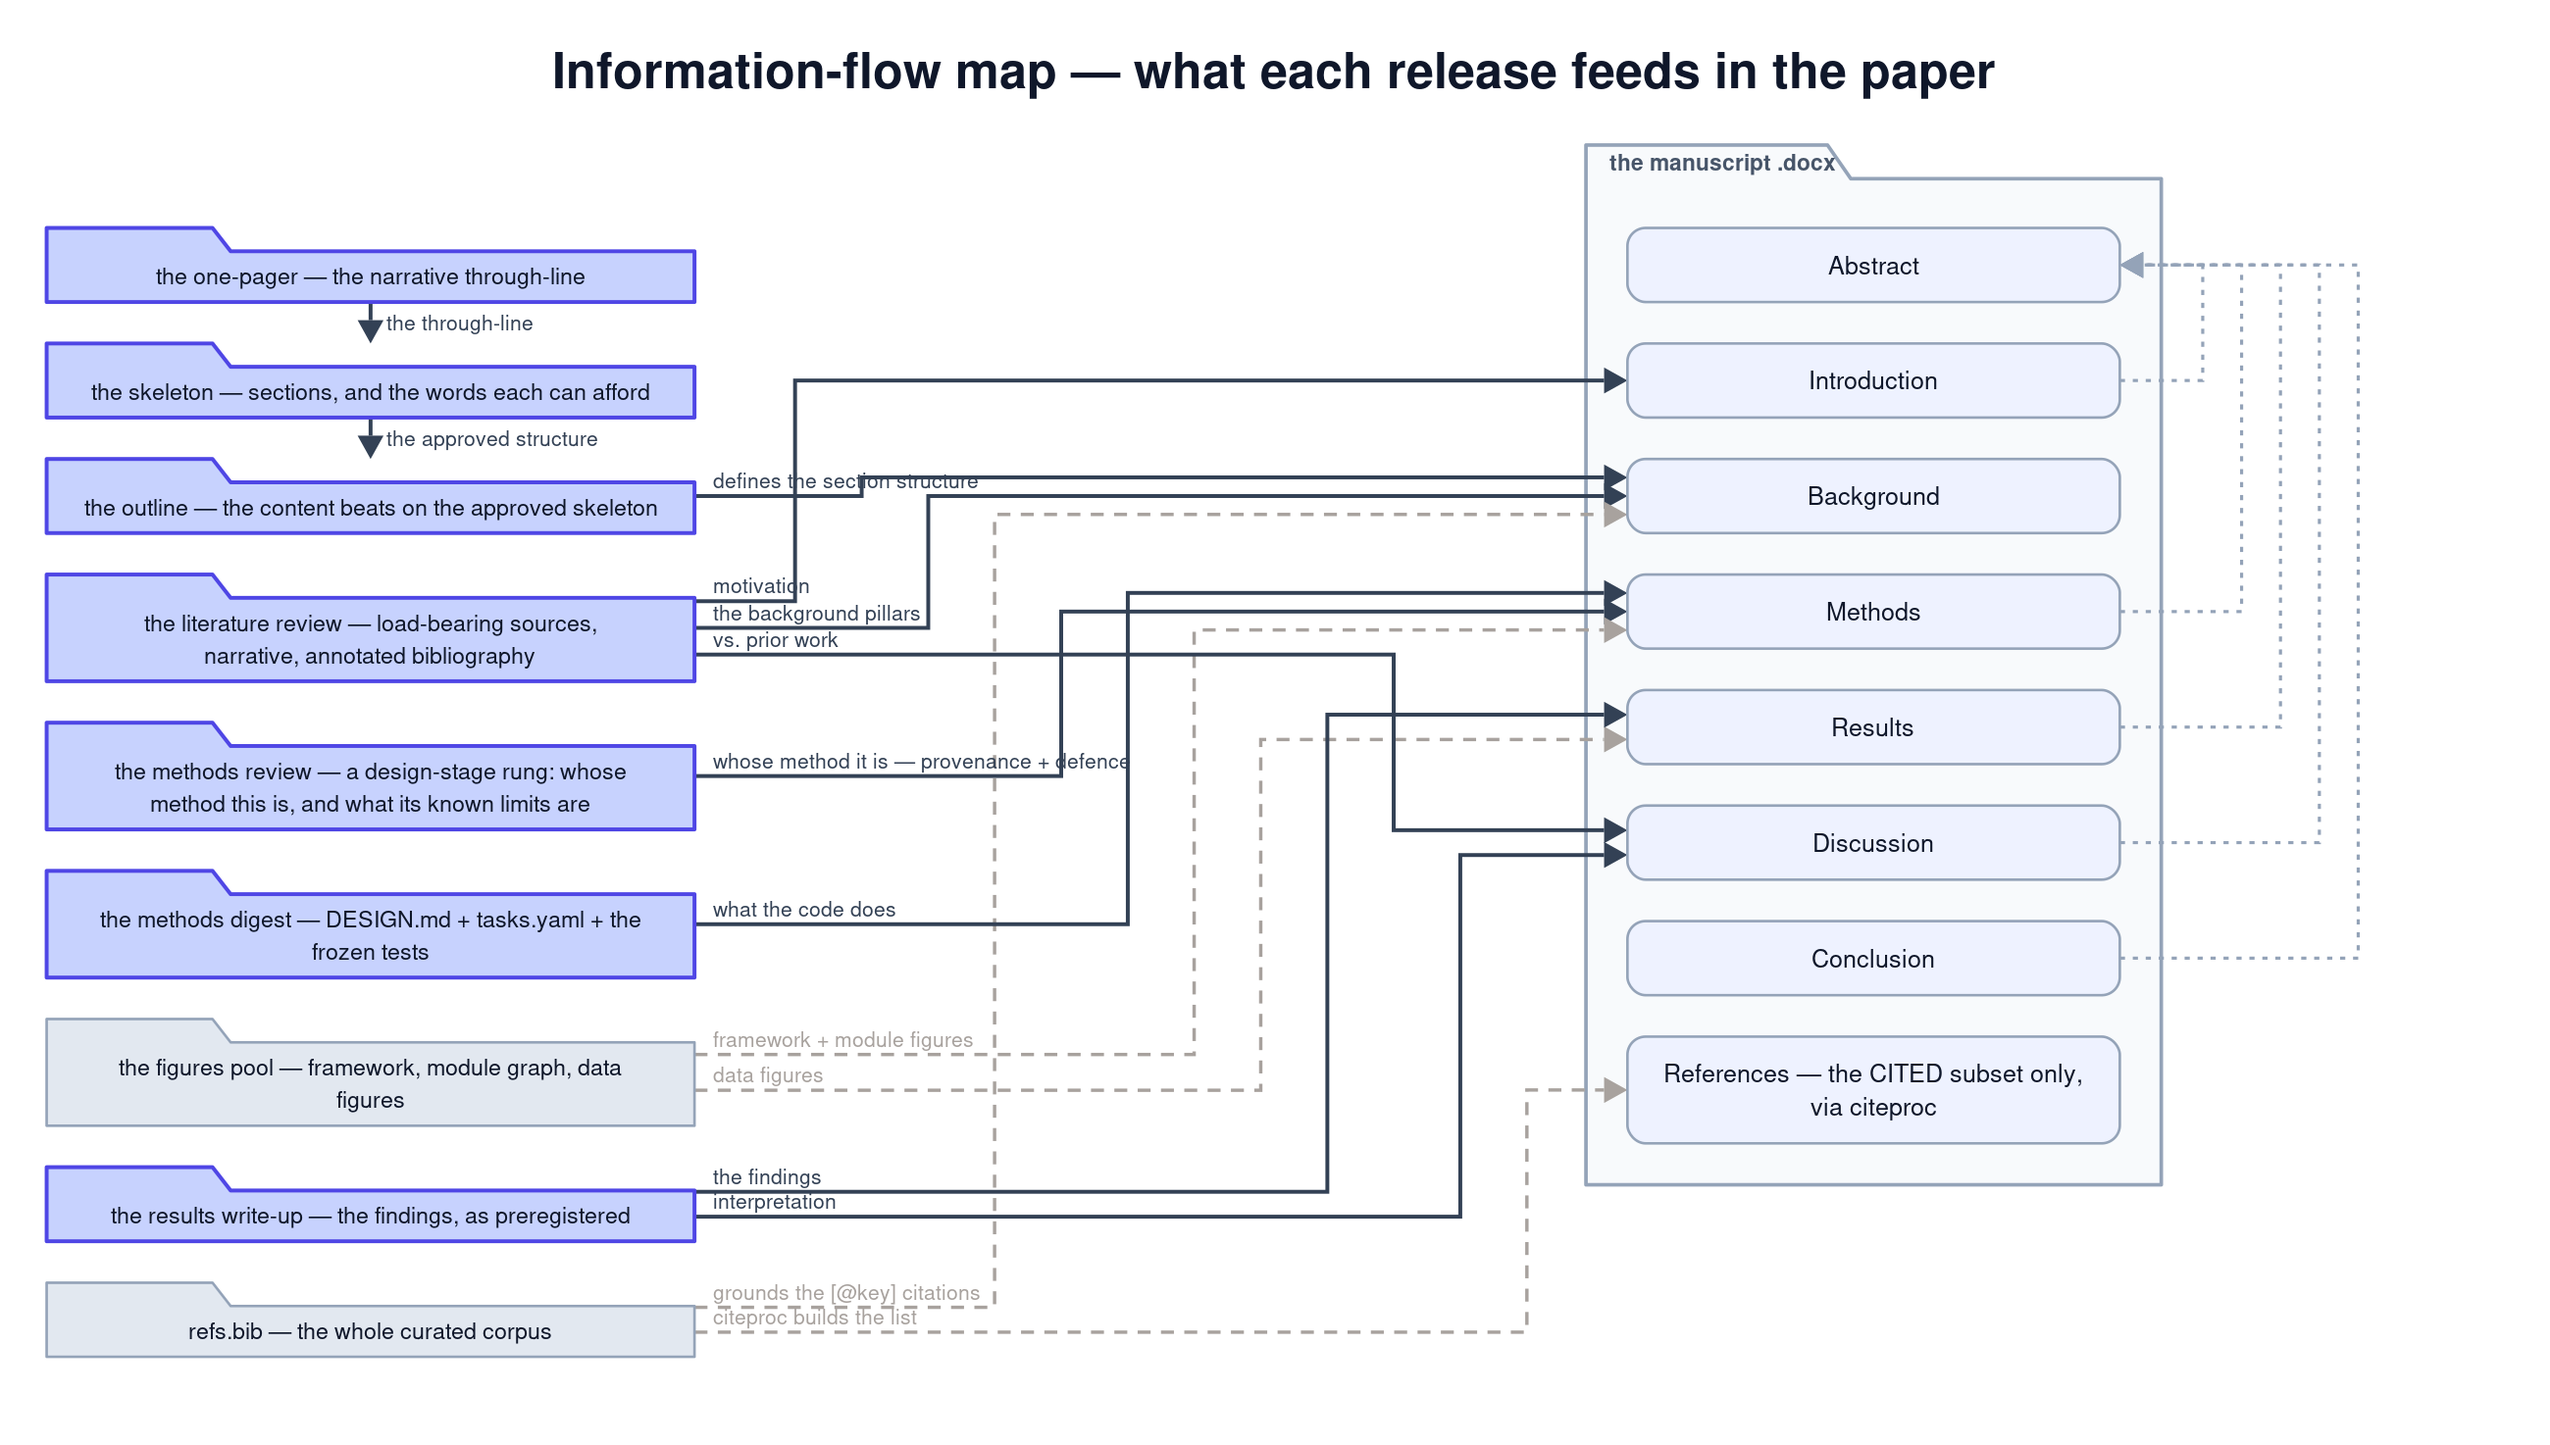
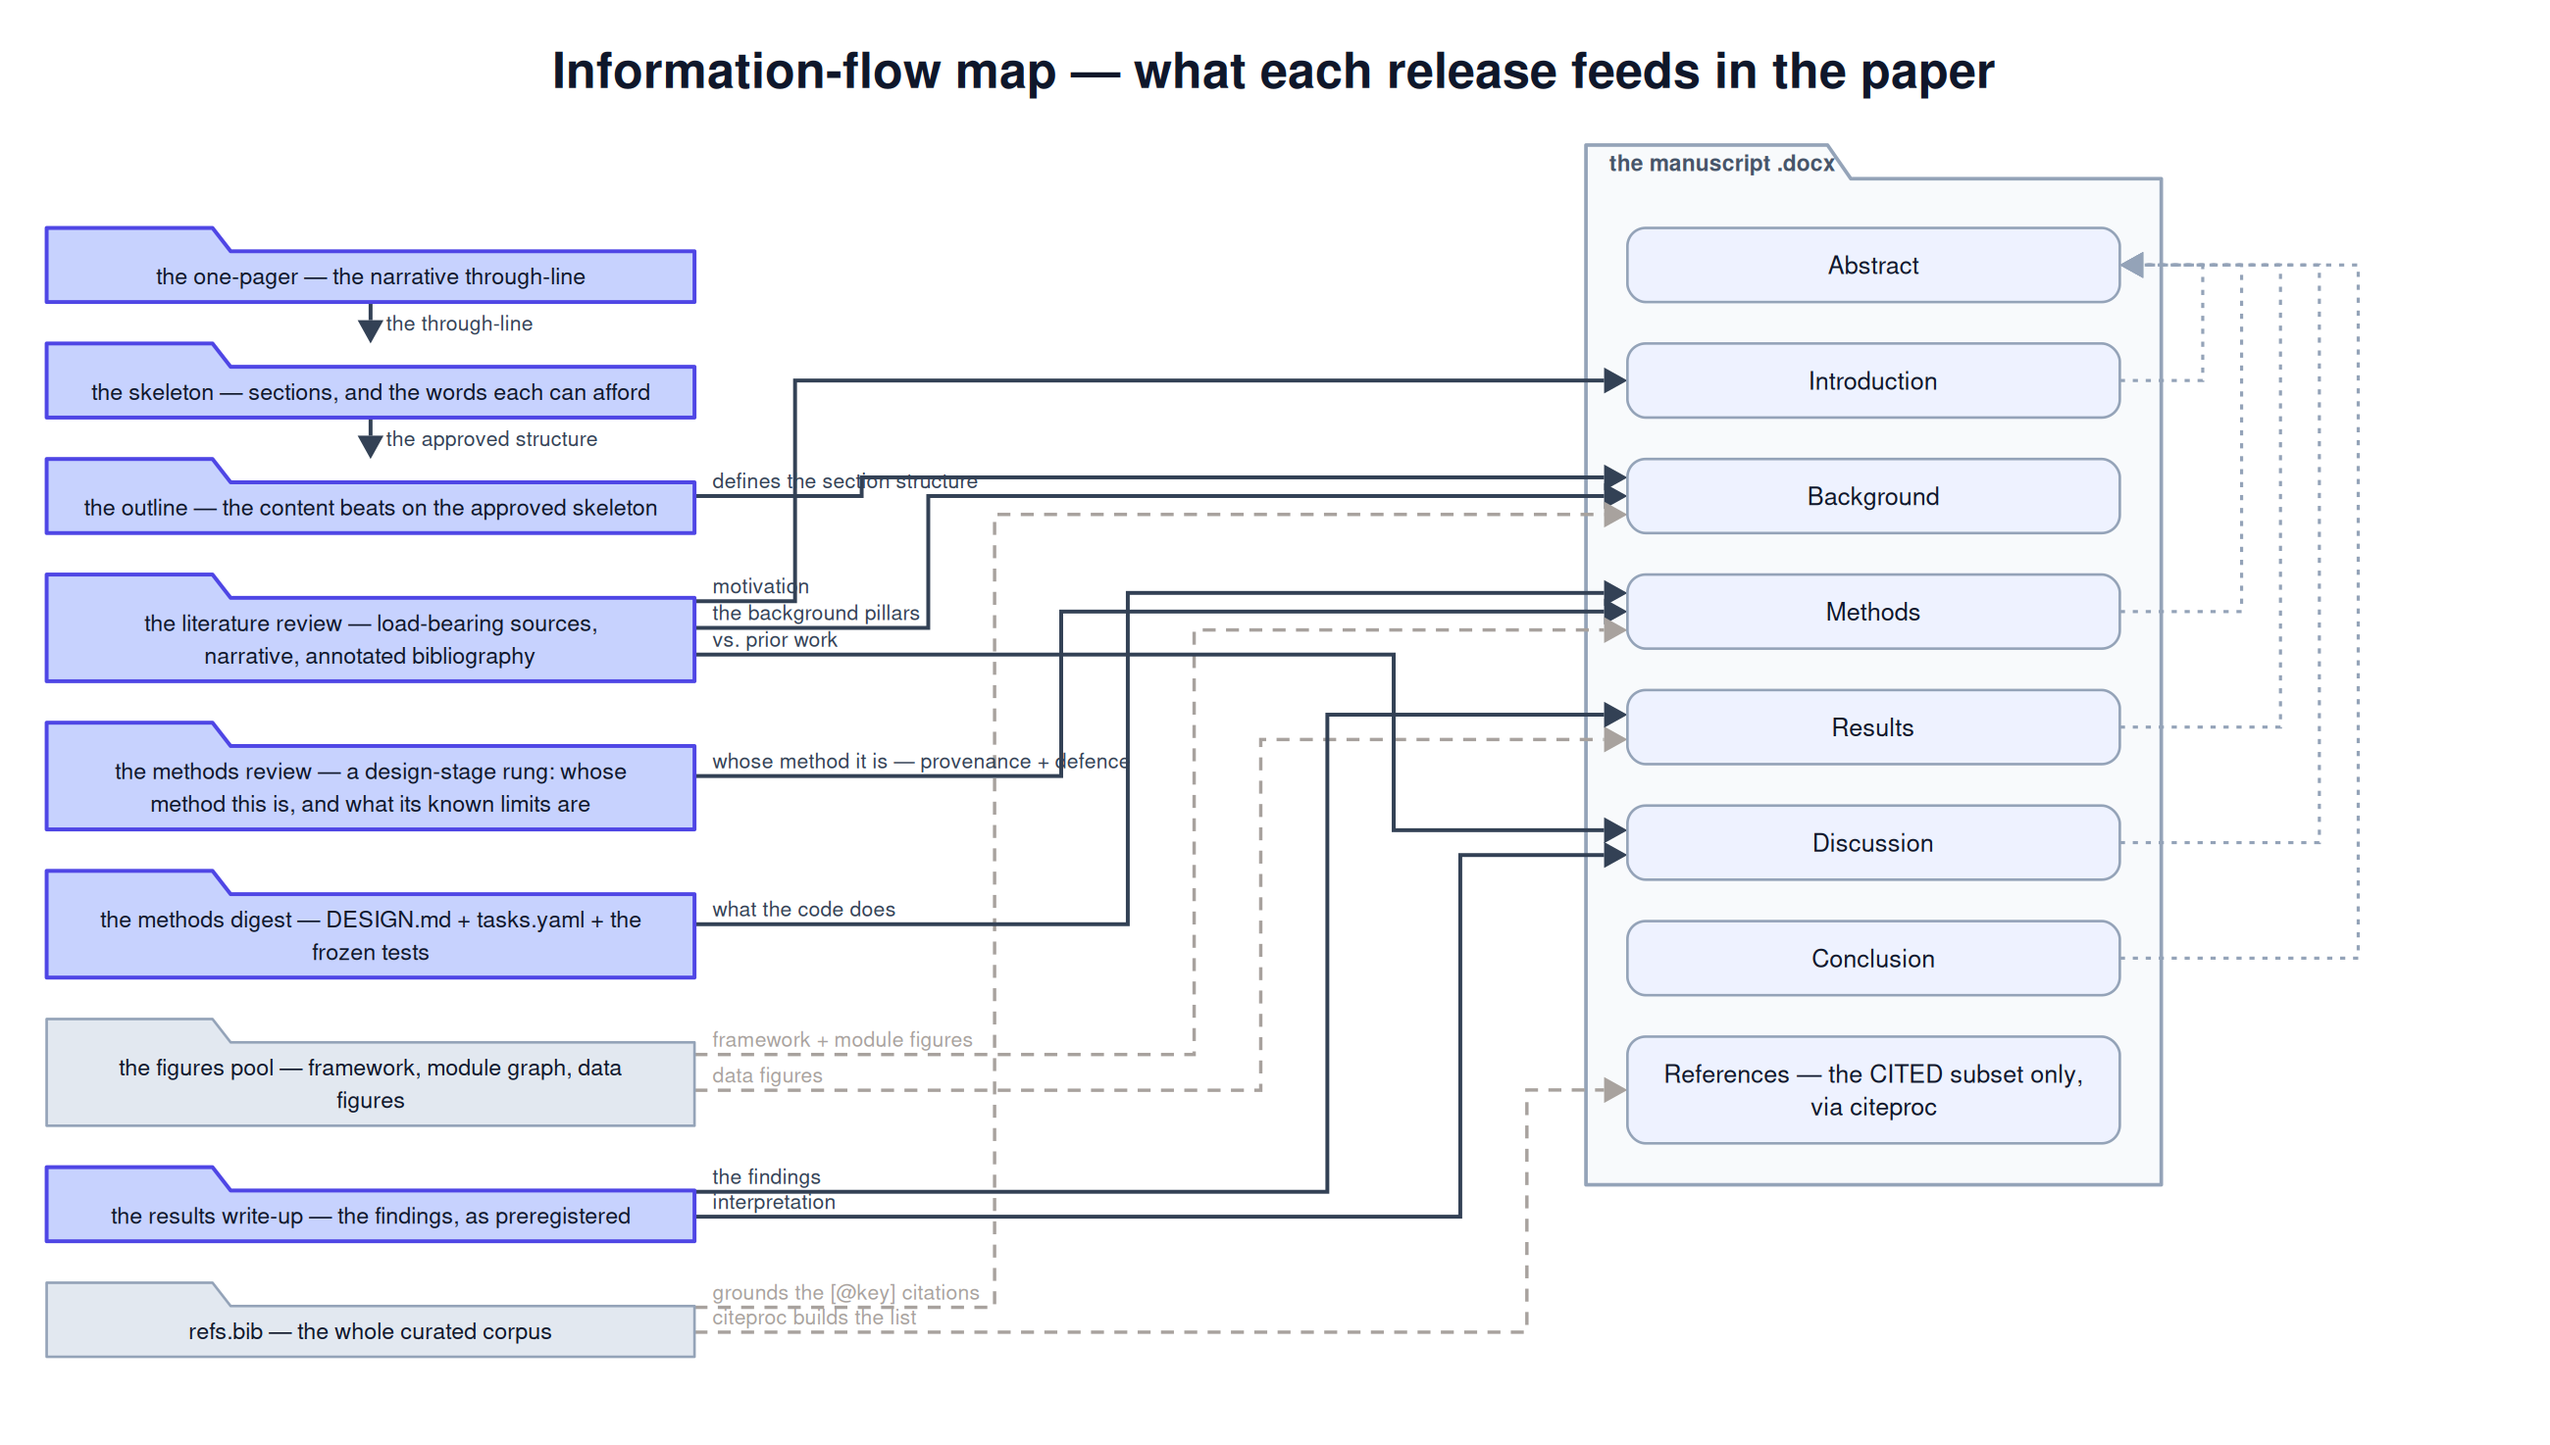
ramus could not be installed from a fresh checkout
ramus depends on haarpi but had no tool.uv.sources entry naming it a
workspace member, so `uv sync` refused to build it. The venv on the old
machine predated the ramus split, which hid this; uv.lock was stale for
the same reason and gains ramus, razzle and their dependencies.

The README's install section still counted six CLIs, and did not say the
figures need graphviz's neato engine, which recent Ubuntu ships apart
from graphviz. The figures are re-rendered on the rebuilt machine.

diff --git a/README.md b/README.md
@@ -531,14 +531,15 @@ looking for the most recently modified one whose trailing suffix is *not* `ra`.
 ```bash
 git clone https://github.com/dcaler/haarpi.git
 cd haarpi
-uv sync            # one venv, all six CLIs
+uv sync            # one venv, all seven CLIs
 ```
 
 Each tool remains individually installable (`pip install -e packages/<tool>`)
 and individually usable — the monorepo shares machinery, not opinions.
 
 You will also need [Ollama](https://ollama.com) for the local models, `pandoc`
-for document rendering, `graphviz` for the figures, and a Zotero library with
+for document rendering, `graphviz` with its neato layout engine for the figures
+(a separate package on recent Ubuntu: `libgvplugin-neato-layout8`), and a Zotero library with
 API access for the literature stage. Configuration lives in
 `~/.config/haarpi/config.toml`.
 
